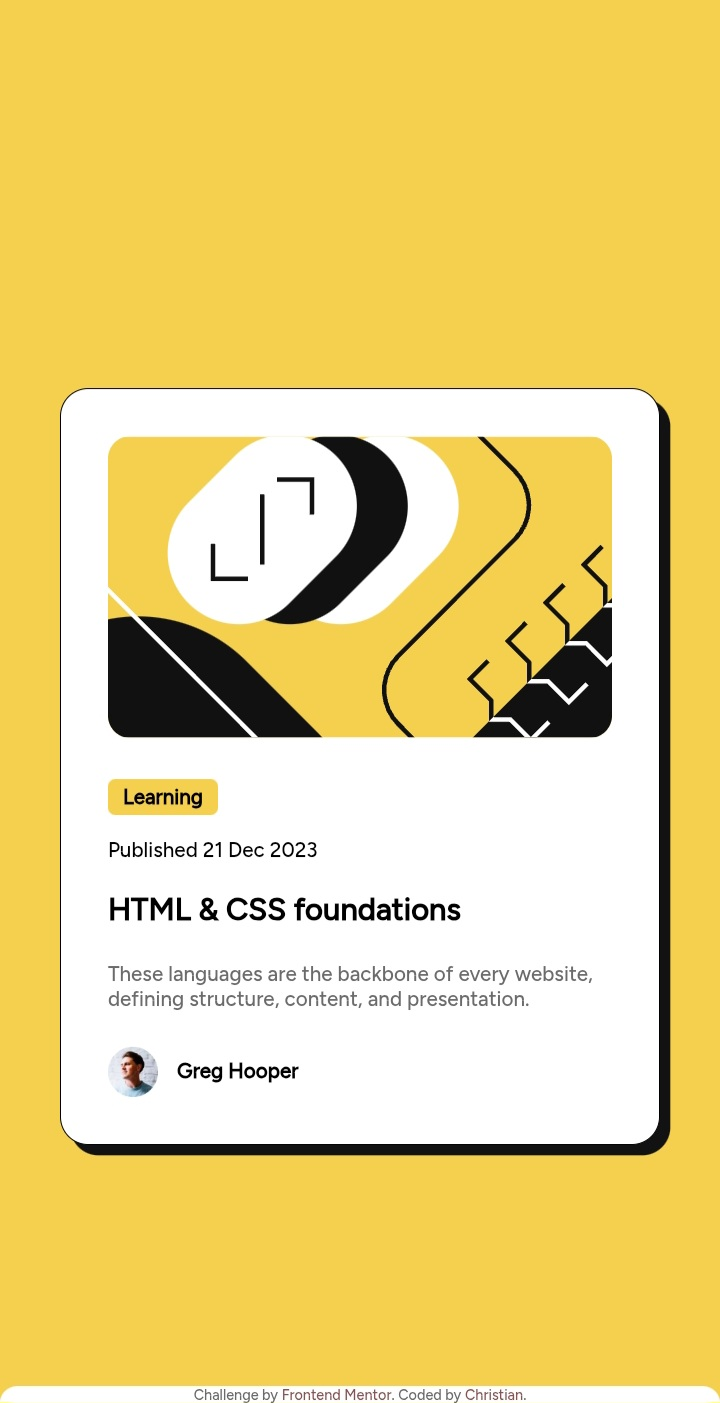
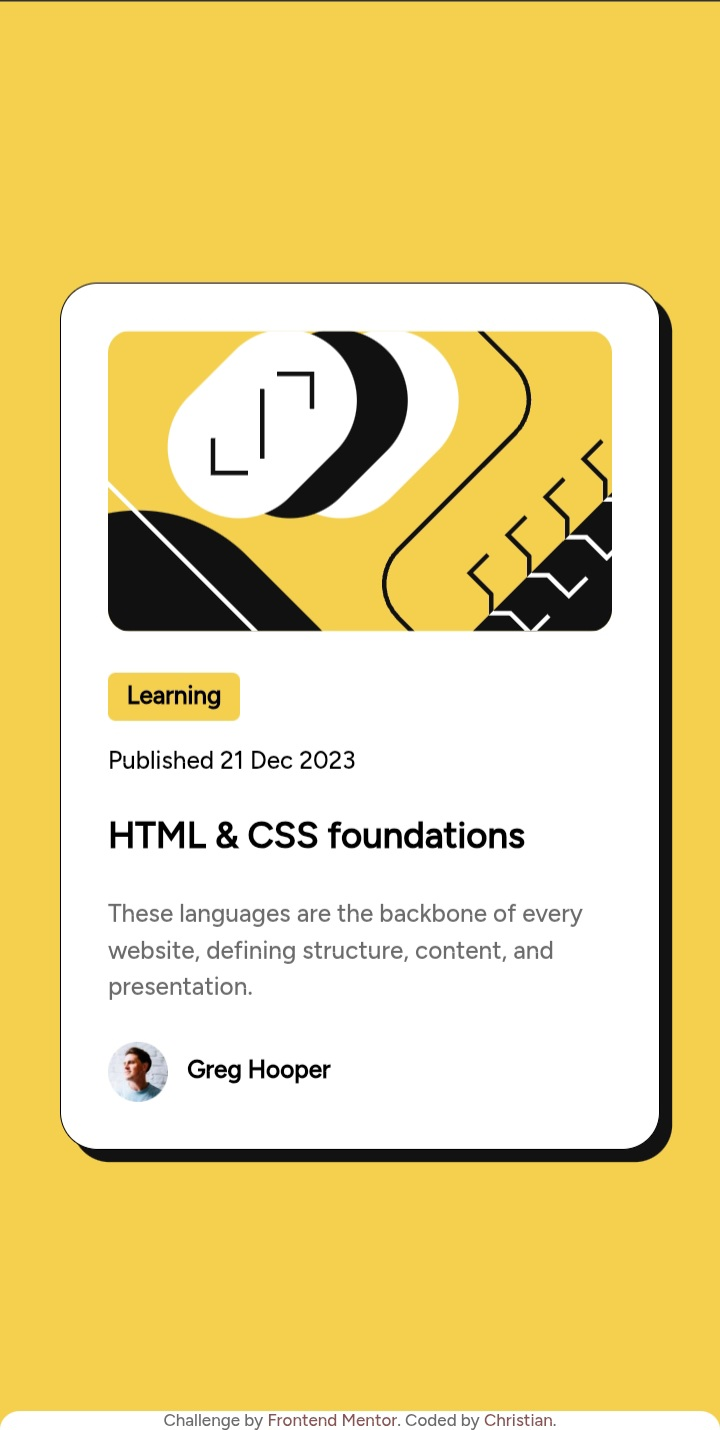
made adjustments andchanged Mobile view

Changed region(s): [[0.0611, 0.1839, 0.9472, 0.8275], [0.0, 0.9808, 1.0, 1.0], [0.0611, 0.7662, 0.0917, 0.7969]]

diff --git a/blog-preview/style.css b/blog-preview/style.css
@@ -15,20 +15,16 @@
     border: 0;
 }
 
-html{
+html, body{
     display: flex;
-    font-size: clamp(11px, 2vw, 16px);
+    align-items: center;
+    justify-content: center;
+    flex-flow: column nowrap;
+    font-size: clamp(13px, 2vw, 18px);
     width: 100vw;
     height: 100vh;
     font-family: "Figtree", Arial, Helvetica, sans-serif;
-}
-
-body {
-    display: grid;
-    grid-template: 1fr / 1fr;
     background: hsl(47, 88%, 63%);
-    align-self: center;
-    margin: 0 auto;
 }
 
 /* style for box-contents */
@@ -40,8 +36,9 @@ section {
     border: solid 1px;
     background: white;
     padding: 25px;
-    border-radius: 15px;
+    border-radius: 20px;
     box-shadow: 0.5rem 0.5rem  hsl(0, 0%, 7%);
+    line-height: 1.5;
     width: clamp(320px,50vw,387px);
 }
 
@@ -53,7 +50,7 @@ section {
 .state > span {
     background: hsl(47, 88%, 63%);
     border-radius: 4px;
-    padding: 3px 8px;
+    padding: 5px 10px;
     font-weight: bold;
 }
  .state > p {
@@ -73,7 +70,7 @@ article {
 }
 
 article > p {
-    color: hsl(0, 0%, 42%)
+    color: hsl(0, 0%, 42%);
 }
 
 
@@ -83,6 +80,7 @@ article > a {
 }
 
 .user {
+    margin-top; 10px;
     display: flex;
     width: 100%;
     align-items: center;
@@ -91,17 +89,15 @@ article > a {
 }
 
 .user > img {
-        max-width: 10%;
+        max-width: 12%;
 }
 
 /*for footer nav*/
 footer{
     position: fixed;
     bottom: 0;
-    right: 50%;
-    transform: translate(50%);
     width: 100%;
-    background: white; /* rgb(200, 200, 200, .4);*/
+    background: white;
     border-radius: 50px 50px 0 0;
 }
 
